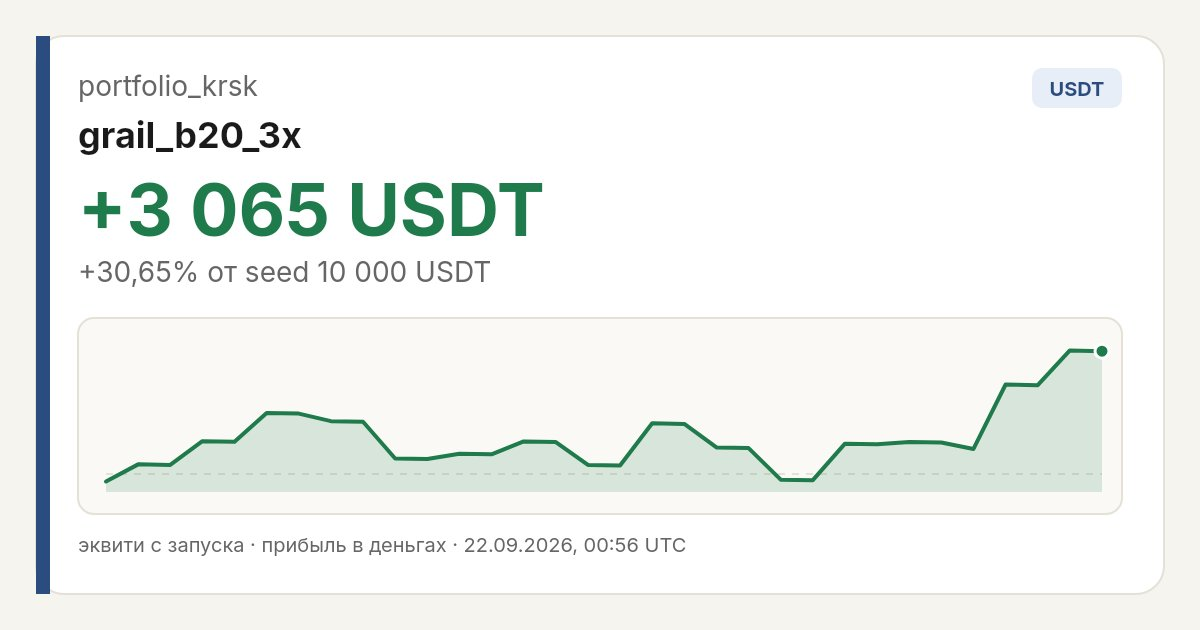
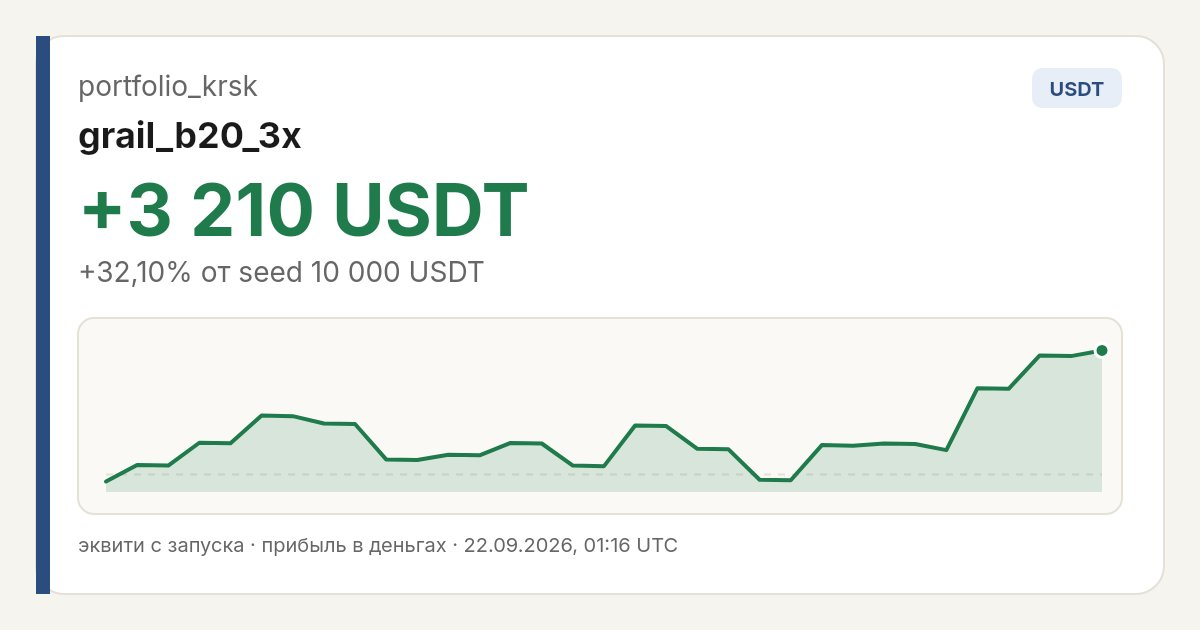
chore: sync paper equity snapshot 2026-09-22T01:16:41Z

diff --git a/public/share.html b/public/share.html
@@ -4,23 +4,23 @@
     <meta charset="UTF-8" />
     <meta name="viewport" content="width=device-width, initial-scale=1.0" />
     <title>portfolio_krsk - grail_b20_3x</title>
-    <meta name="description" content="grail_b20_3x: +3 065 USDT (+30,65%) с запуска. Бумажный кабинет, валюты не складываются." />
+    <meta name="description" content="grail_b20_3x: +3 210 USDT (+32,10%) с запуска. Бумажный кабинет, валюты не складываются." />
     <meta property="og:title" content="portfolio_krsk - grail_b20_3x" />
-    <meta property="og:description" content="grail_b20_3x: +3 065 USDT (+30,65%) с запуска. Бумажный кабинет, валюты не складываются." />
+    <meta property="og:description" content="grail_b20_3x: +3 210 USDT (+32,10%) с запуска. Бумажный кабинет, валюты не складываются." />
     <meta property="og:url" content="https://portfolio-krsk.vercel.app/" />
     <meta property="og:site_name" content="portfolio_krsk" />
     <meta property="og:locale" content="ru_RU" />
     <meta property="og:type" content="website" />
-    <meta property="og:image" content="https://portfolio-krsk.vercel.app/og-cover.jpg?v=202609220056" />
-    <meta property="og:image:secure_url" content="https://portfolio-krsk.vercel.app/og-cover.jpg?v=202609220056" />
+    <meta property="og:image" content="https://portfolio-krsk.vercel.app/og-cover.jpg?v=202609220116" />
+    <meta property="og:image:secure_url" content="https://portfolio-krsk.vercel.app/og-cover.jpg?v=202609220116" />
     <meta property="og:image:type" content="image/jpeg" />
     <meta property="og:image:width" content="1200" />
     <meta property="og:image:height" content="630" />
-    <link rel="image_src" href="https://portfolio-krsk.vercel.app/og-cover.jpg?v=202609220056" />
+    <link rel="image_src" href="https://portfolio-krsk.vercel.app/og-cover.jpg?v=202609220116" />
     <meta name="twitter:card" content="summary_large_image" />
     <meta name="twitter:title" content="portfolio_krsk - grail_b20_3x" />
-    <meta name="twitter:description" content="grail_b20_3x: +3 065 USDT (+30,65%) с запуска. Бумажный кабинет, валюты не складываются." />
-    <meta name="twitter:image" content="https://portfolio-krsk.vercel.app/og-cover.jpg?v=202609220056" />
+    <meta name="twitter:description" content="grail_b20_3x: +3 210 USDT (+32,10%) с запуска. Бумажный кабинет, валюты не складываются." />
+    <meta name="twitter:image" content="https://portfolio-krsk.vercel.app/og-cover.jpg?v=202609220116" />
     <meta http-equiv="refresh" content="0; url=/" />
     <script>location.replace("/")</script>
     <style>
@@ -49,9 +49,9 @@
   </head>
   <body>
     <main>
-      <img src="https://portfolio-krsk.vercel.app/og-cover.jpg?v=202609220056" alt="portfolio_krsk - grail_b20_3x" width="1200" height="630" />
+      <img src="https://portfolio-krsk.vercel.app/og-cover.jpg?v=202609220116" alt="portfolio_krsk - grail_b20_3x" width="1200" height="630" />
       <noscript>
-        <p>grail_b20_3x: +3 065 USDT (+30,65%) с запуска. Бумажный кабинет, валюты не складываются.</p>
+        <p>grail_b20_3x: +3 210 USDT (+32,10%) с запуска. Бумажный кабинет, валюты не складываются.</p>
         <p><a href="/">Открыть кабинет portfolio_krsk</a></p>
       </noscript>
     </main>

diff --git a/index.html b/index.html
@@ -4,23 +4,23 @@
     <meta charset="UTF-8" />
     <meta name="viewport" content="width=device-width, initial-scale=1.0, viewport-fit=cover" />
     <title>portfolio_krsk — бумажные боты</title>
-    <meta name="description" content="grail_b20_3x: +3 065 USDT (+30,65%) с запуска. Бумажный кабинет, валюты не складываются." />
+    <meta name="description" content="grail_b20_3x: +3 210 USDT (+32,10%) с запуска. Бумажный кабинет, валюты не складываются." />
     <meta property="og:title" content="portfolio_krsk - grail_b20_3x" />
-    <meta property="og:description" content="grail_b20_3x: +3 065 USDT (+30,65%) с запуска. Бумажный кабинет, валюты не складываются." />
+    <meta property="og:description" content="grail_b20_3x: +3 210 USDT (+32,10%) с запуска. Бумажный кабинет, валюты не складываются." />
     <meta property="og:url" content="https://portfolio-krsk.vercel.app/" />
     <meta property="og:site_name" content="portfolio_krsk" />
     <meta property="og:locale" content="ru_RU" />
     <meta property="og:type" content="website" />
-    <meta property="og:image" content="https://portfolio-krsk.vercel.app/og-cover.jpg?v=202609220056" />
-    <meta property="og:image:secure_url" content="https://portfolio-krsk.vercel.app/og-cover.jpg?v=202609220056" />
+    <meta property="og:image" content="https://portfolio-krsk.vercel.app/og-cover.jpg?v=202609220116" />
+    <meta property="og:image:secure_url" content="https://portfolio-krsk.vercel.app/og-cover.jpg?v=202609220116" />
     <meta property="og:image:type" content="image/jpeg" />
     <meta property="og:image:width" content="1200" />
     <meta property="og:image:height" content="630" />
-    <link rel="image_src" href="https://portfolio-krsk.vercel.app/og-cover.jpg?v=202609220056" />
+    <link rel="image_src" href="https://portfolio-krsk.vercel.app/og-cover.jpg?v=202609220116" />
     <meta name="twitter:card" content="summary_large_image" />
     <meta name="twitter:title" content="portfolio_krsk - grail_b20_3x" />
-    <meta name="twitter:description" content="grail_b20_3x: +3 065 USDT (+30,65%) с запуска. Бумажный кабинет, валюты не складываются." />
-    <meta name="twitter:image" content="https://portfolio-krsk.vercel.app/og-cover.jpg?v=202609220056" />
+    <meta name="twitter:description" content="grail_b20_3x: +3 210 USDT (+32,10%) с запуска. Бумажный кабинет, валюты не складываются." />
+    <meta name="twitter:image" content="https://portfolio-krsk.vercel.app/og-cover.jpg?v=202609220116" />
   </head>
   <body>
     <div id="root"></div>
